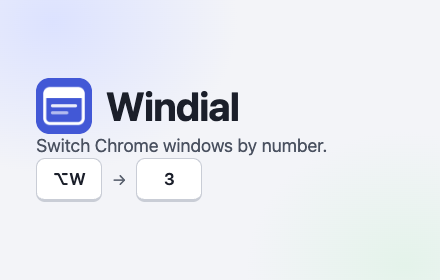
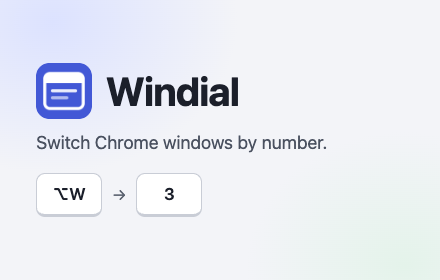
Promo tile spacing

diff --git a/store/tile.html b/store/tile.html
@@ -21,7 +21,7 @@
   .small .brand { display: flex; align-items: center; gap: 14px; }
   .small .brand img { width: 56px; height: 56px; border-radius: 13px; }
   .small h1 { font-size: 40px; letter-spacing: -.02em; margin: 0; font-weight: 700; }
-  .small p { margin: 0; font-size: 18px; color: #4A5160; line-height: 1.35; }
+  .small p { margin: 12px 0 18px; font-size: 18px; color: #4A5160; line-height: 1.35; }
   .small .keys { display: flex; align-items: center; gap: 10px; font-size: 16px; }
   .small .k { min-width: 40px; height: 40px; padding: 0 12px; font-size: 17px; }
 
